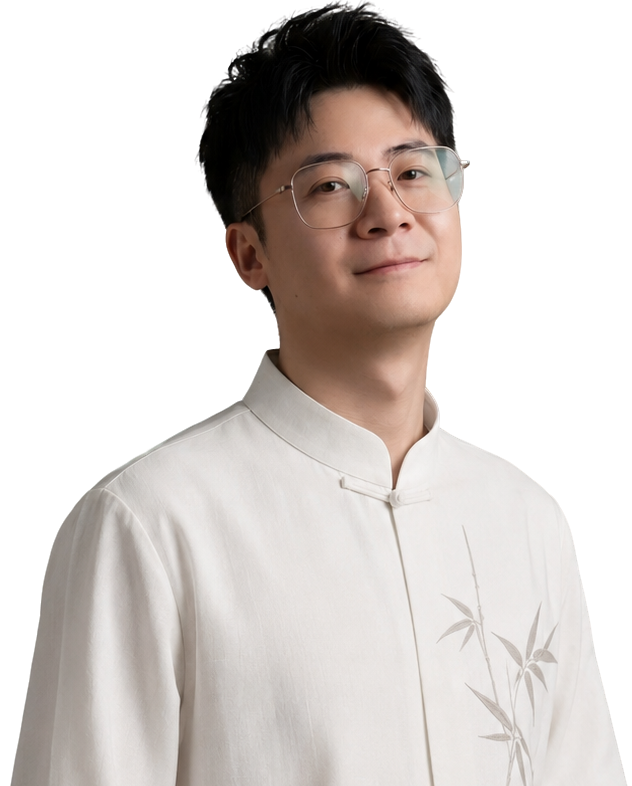
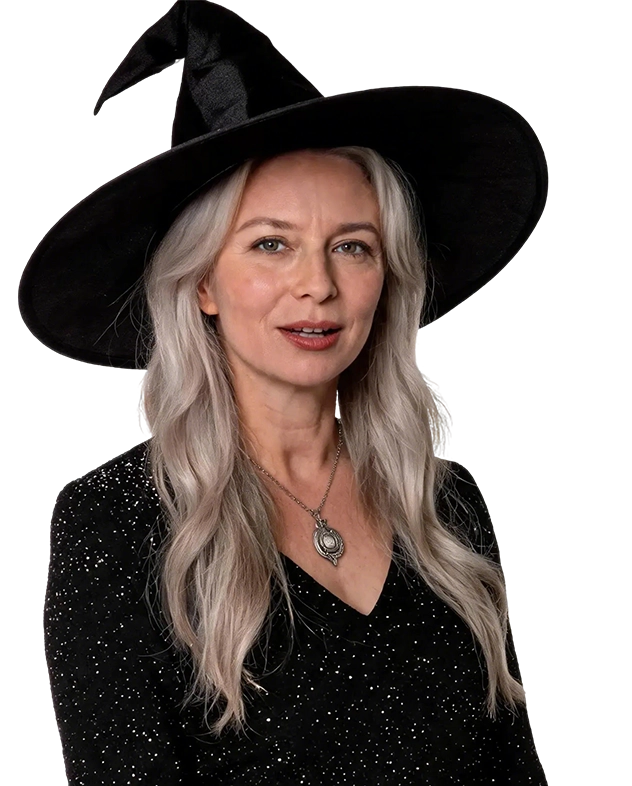
Replace homepage expert with Judica Heventh

diff --git a/integrated/frontend/src/i18n/index.ts b/integrated/frontend/src/i18n/index.ts
@@ -275,7 +275,7 @@ const translations: Record<string, Record<string, string>> = {
     reportPlanetTransformer: "Transformer",
     lifeScriptBrand: "Life Script",
     landingBrandEn: "LIFE SCRIPT",
-    landingExpertName: "Luo Dao",
+    landingExpertName: "Judica Heventh",
     landingExpertTitle: "Leading Astrology Expert",
     landingCred1: "Founder of Talent Planet",
     landingCred2: "10M+ followers worldwide",
@@ -640,7 +640,7 @@ const translations: Record<string, Record<string, string>> = {
     // Prism landing
     lifeScriptBrand: "人生剧本",
     landingBrandEn: "LIFE SCRIPT",
-    landingExpertName: "罗导",
+    landingExpertName: "Judica Heventh",
     landingExpertTitle: "占星学领军人物",
     landingCred1: "天赋星球创始人",
     landingCred2: "全网超过千万粉丝",

diff --git a/integrated/首页代码/frontend/src/components/prism/PrismLandingV3.tsx b/integrated/首页代码/frontend/src/components/prism/PrismLandingV3.tsx
@@ -25,12 +25,12 @@ export default function PrismLandingV3({ onStart, questionCount = 20 }: PrismLan
             <div className="v3-hero-visual">
               <div className="v3-texture" aria-hidden />
               <div className="v3-portrait">
-                <img src="/images/luodao-halfbody-v2.png" alt="罗导" />
+                <img src="/images/luodao-halfbody-v2.png?v=20260720" alt="Judica Heventh" />
               </div>
             </div>
 
             <div className="v3-hero-info">
-              <h1 className="v3-name">罗导</h1>
+              <h1 className="v3-name">Judica Heventh</h1>
               <p className="v3-title">占星学领军人物</p>
               <div className="v3-credentials">
                 <span>天赋星球创始人</span>

diff --git a/integrated/frontend/src/components/prism/PrismLandingV3.tsx b/integrated/frontend/src/components/prism/PrismLandingV3.tsx
@@ -29,7 +29,7 @@ export default function PrismLandingV3({ onStart, questionCount = 20 }: PrismLan
             <div className="v3-hero-visual">
               <div className="v3-texture" aria-hidden />
               <div className="v3-portrait">
-                <img src="/images/luodao-halfbody-v2.png" alt={t("landingExpertName")} />
+                <img src="/images/luodao-halfbody-v2.png?v=20260720" alt={t("landingExpertName")} />
               </div>
             </div>
 